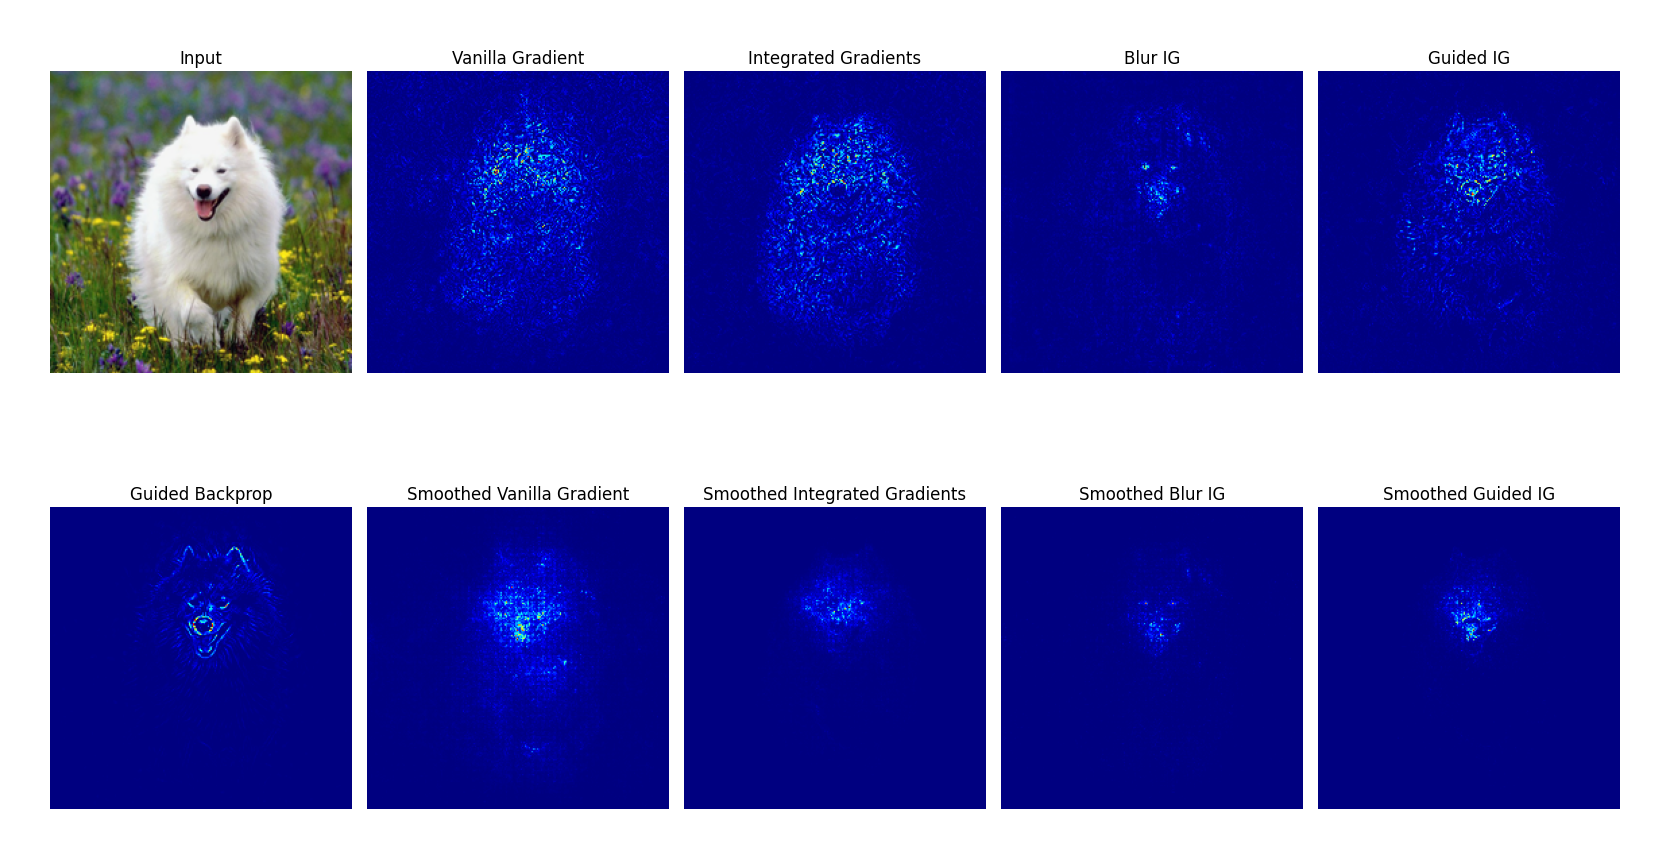
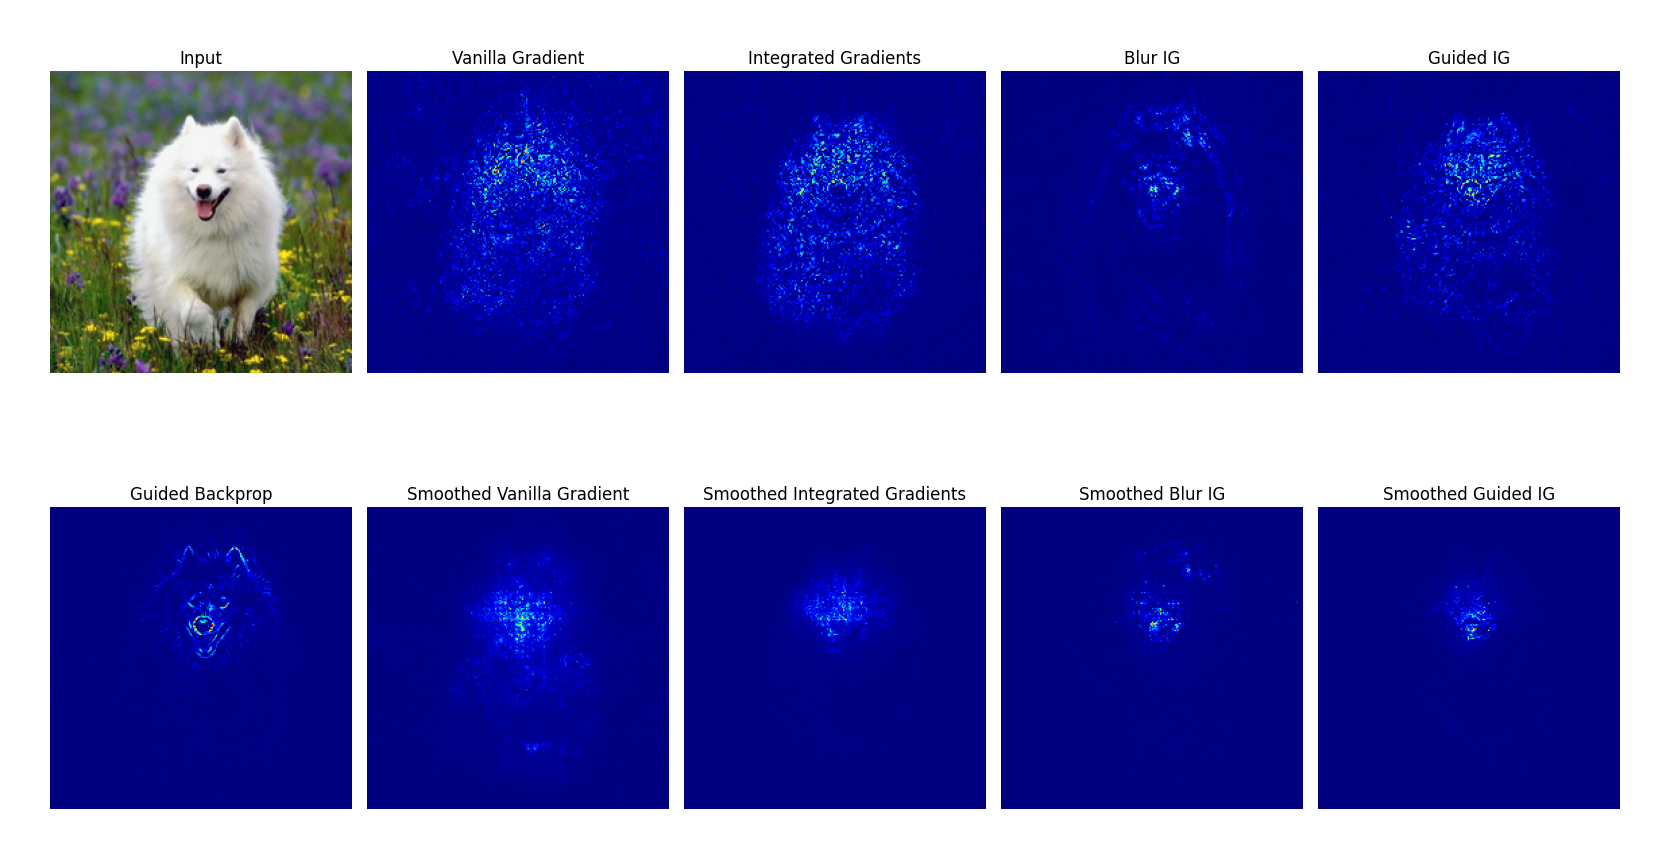
fix bug of blur ig when batch input

diff --git a/gradients_visualization_examples.py b/gradients_visualization_examples.py
@@ -32,15 +32,11 @@ if __name__ == '__main__':
     
     # Predict the image
     img = transform(dog).unsqueeze(0)
+    img = torch.cat([img, img])
     img = img.to(device)
     output = model(img)
-    target_index = torch.argmax(output[0]).cpu()
-    print('Predicted:', IMAGENET_1k_LABELS[target_index.item()])
-    
-    # Support for batch processing
-    gradient_net = VanillaGradient(model)
-    # shape (2, 3, H, W) before and (2, 1, H, W) after normalize_saliency
-    attribution_gradients = normalize_saliency(gradient_net.get_mask(torch.cat([img, img], 0), [target_index]*2))
+    target_index = torch.argmax(output, dim=1).cpu()
+    print('Predicted:', IMAGENET_1k_LABELS[target_index[0].item()])
     
     # Vanilla Gradient
     gradient_net = VanillaGradient(model)
@@ -72,30 +68,30 @@ if __name__ == '__main__':
     plt.imshow(dog)
     plt.subplot(2, 5, 6)
     plt.title('Guided Backprop')
-    visualize_single_saliency(attribution_guided_bp)
+    visualize_single_saliency(attribution_guided_bp[0].unsqueeze(0))
     plt.subplot(2, 5, 2)
     plt.title('Vanilla Gradient')
-    visualize_single_saliency(attribution_gradients)
+    visualize_single_saliency(attribution_gradients[0].unsqueeze(0))
     plt.subplot(2, 5, 7)
     plt.title('Smoothed Vanilla Gradient')
-    visualize_single_saliency(attribution_smooth_gradients)
+    visualize_single_saliency(attribution_smooth_gradients[0].unsqueeze(0))
     plt.subplot(2, 5, 3)
     plt.title('Integrated Gradients')
-    visualize_single_saliency(attribution_ig)
+    visualize_single_saliency(attribution_ig[0].unsqueeze(0))
     plt.subplot(2, 5, 8)
     plt.title('Smoothed Integrated Gradients')
-    visualize_single_saliency(attribution_smooth_ig)
+    visualize_single_saliency(attribution_smooth_ig[0].unsqueeze(0))
     plt.subplot(2, 5, 4)
     plt.title('Blur IG')
-    visualize_single_saliency(attribution_blur_ig)
+    visualize_single_saliency(attribution_blur_ig[0].unsqueeze(0))
     plt.subplot(2, 5, 9)
     plt.title('Smoothed Blur IG')
-    visualize_single_saliency(attribution_smooth_blur_ig)
+    visualize_single_saliency(attribution_smooth_blur_ig[0].unsqueeze(0))
     plt.subplot(2, 5, 5)
     plt.title('Guided IG')
-    visualize_single_saliency(attribution_guided_ig)
+    visualize_single_saliency(attribution_guided_ig[0].unsqueeze(0))
     plt.subplot(2, 5, 10)
     plt.title('Smoothed Guided IG')
-    visualize_single_saliency(attribution_smooth_guided_ig)
+    visualize_single_saliency(attribution_smooth_guided_ig[0].unsqueeze(0))
     plt.tight_layout()
     plt.savefig('examples/gradients_visualization.png', bbox_inches='tight', pad_inches=0.5)

diff --git a/attribution/blur_ig.py b/attribution/blur_ig.py
@@ -40,7 +40,11 @@ class BlurIG(VanillaGradient):
             gaussian_gradient_batched.append(gaussian_gradients)
             if len(x_step_batched) == batch_size or i == steps - 1:
                 x_step_batched = torch.cat(x_step_batched, dim=0)
-                gradients = super(BlurIG, self).get_mask(x_step_batched, torch.stack([target_class] * x_step_batched.size(0), dim=0))
+                x_step_batched.requires_grad = True
+                outputs = torch.softmax(self.model(x_step_batched), dim=1)[:, target_class]
+                gradients = torch.autograd.grad(outputs, x_step_batched, torch.ones_like(outputs), create_graph=True)[0]
+                gradients = gradients.detach()
+                # gradients = super(BlurIG, self).get_mask(x_step_batched, torch.stack([target_class] * x_step_batched.size(0), dim=0))
 
                 with torch.no_grad():
                     total_gradients += (step_vector_diff[i] * 
